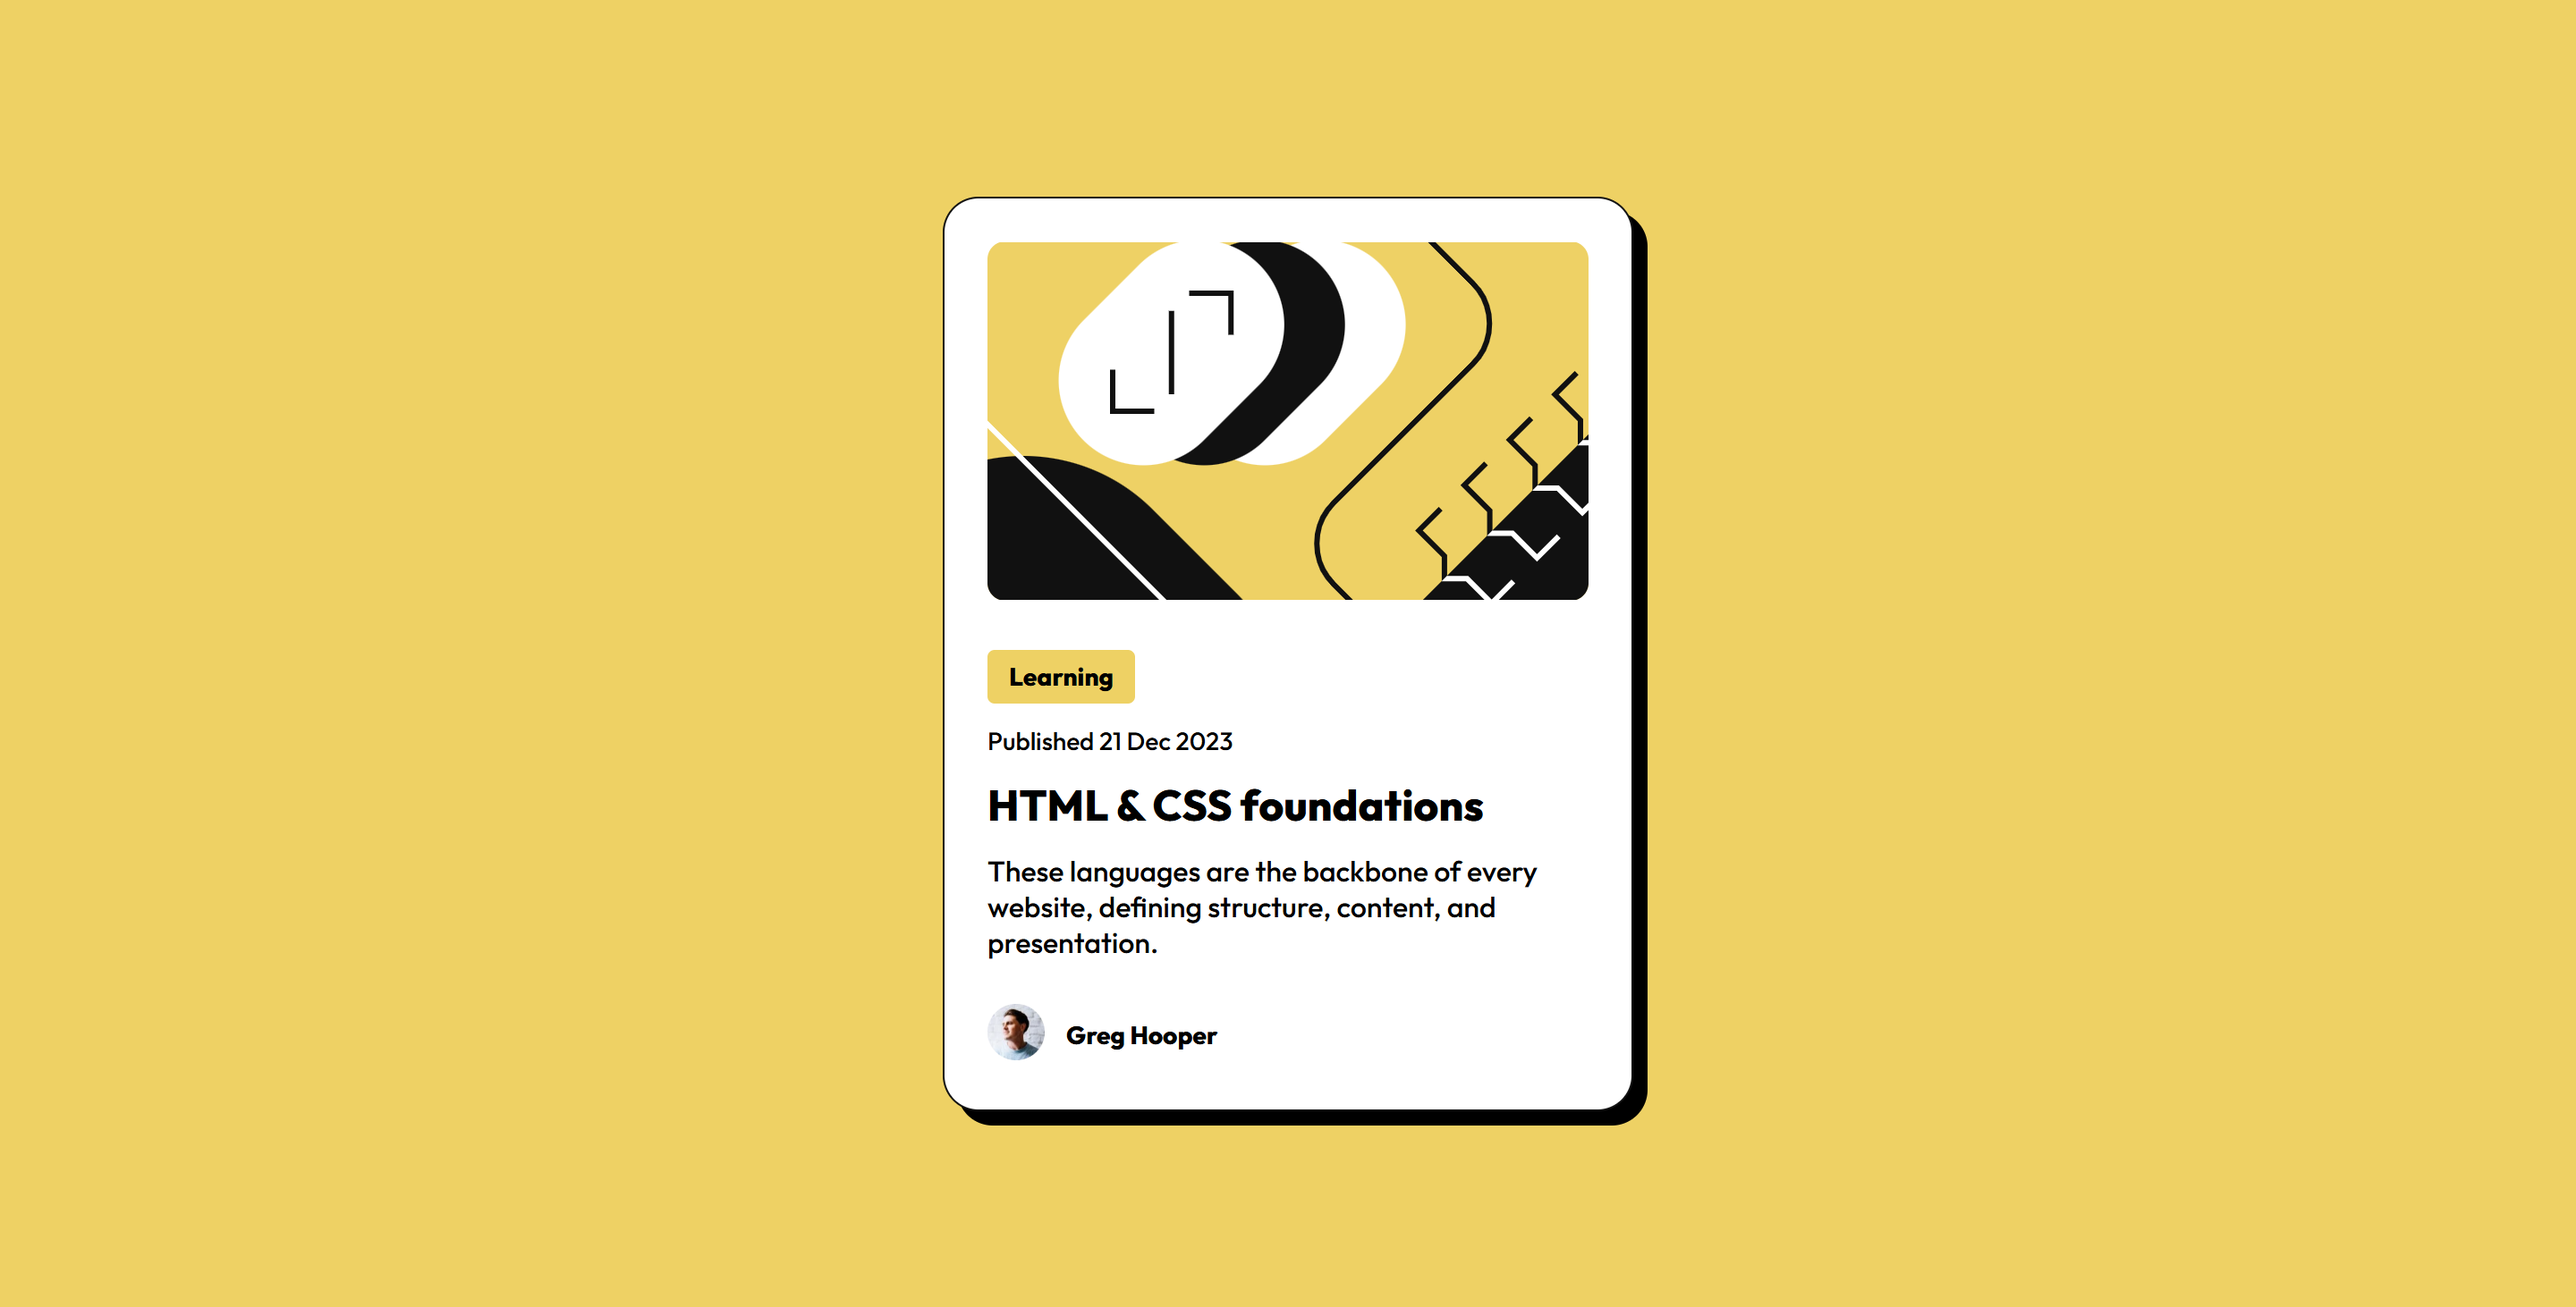
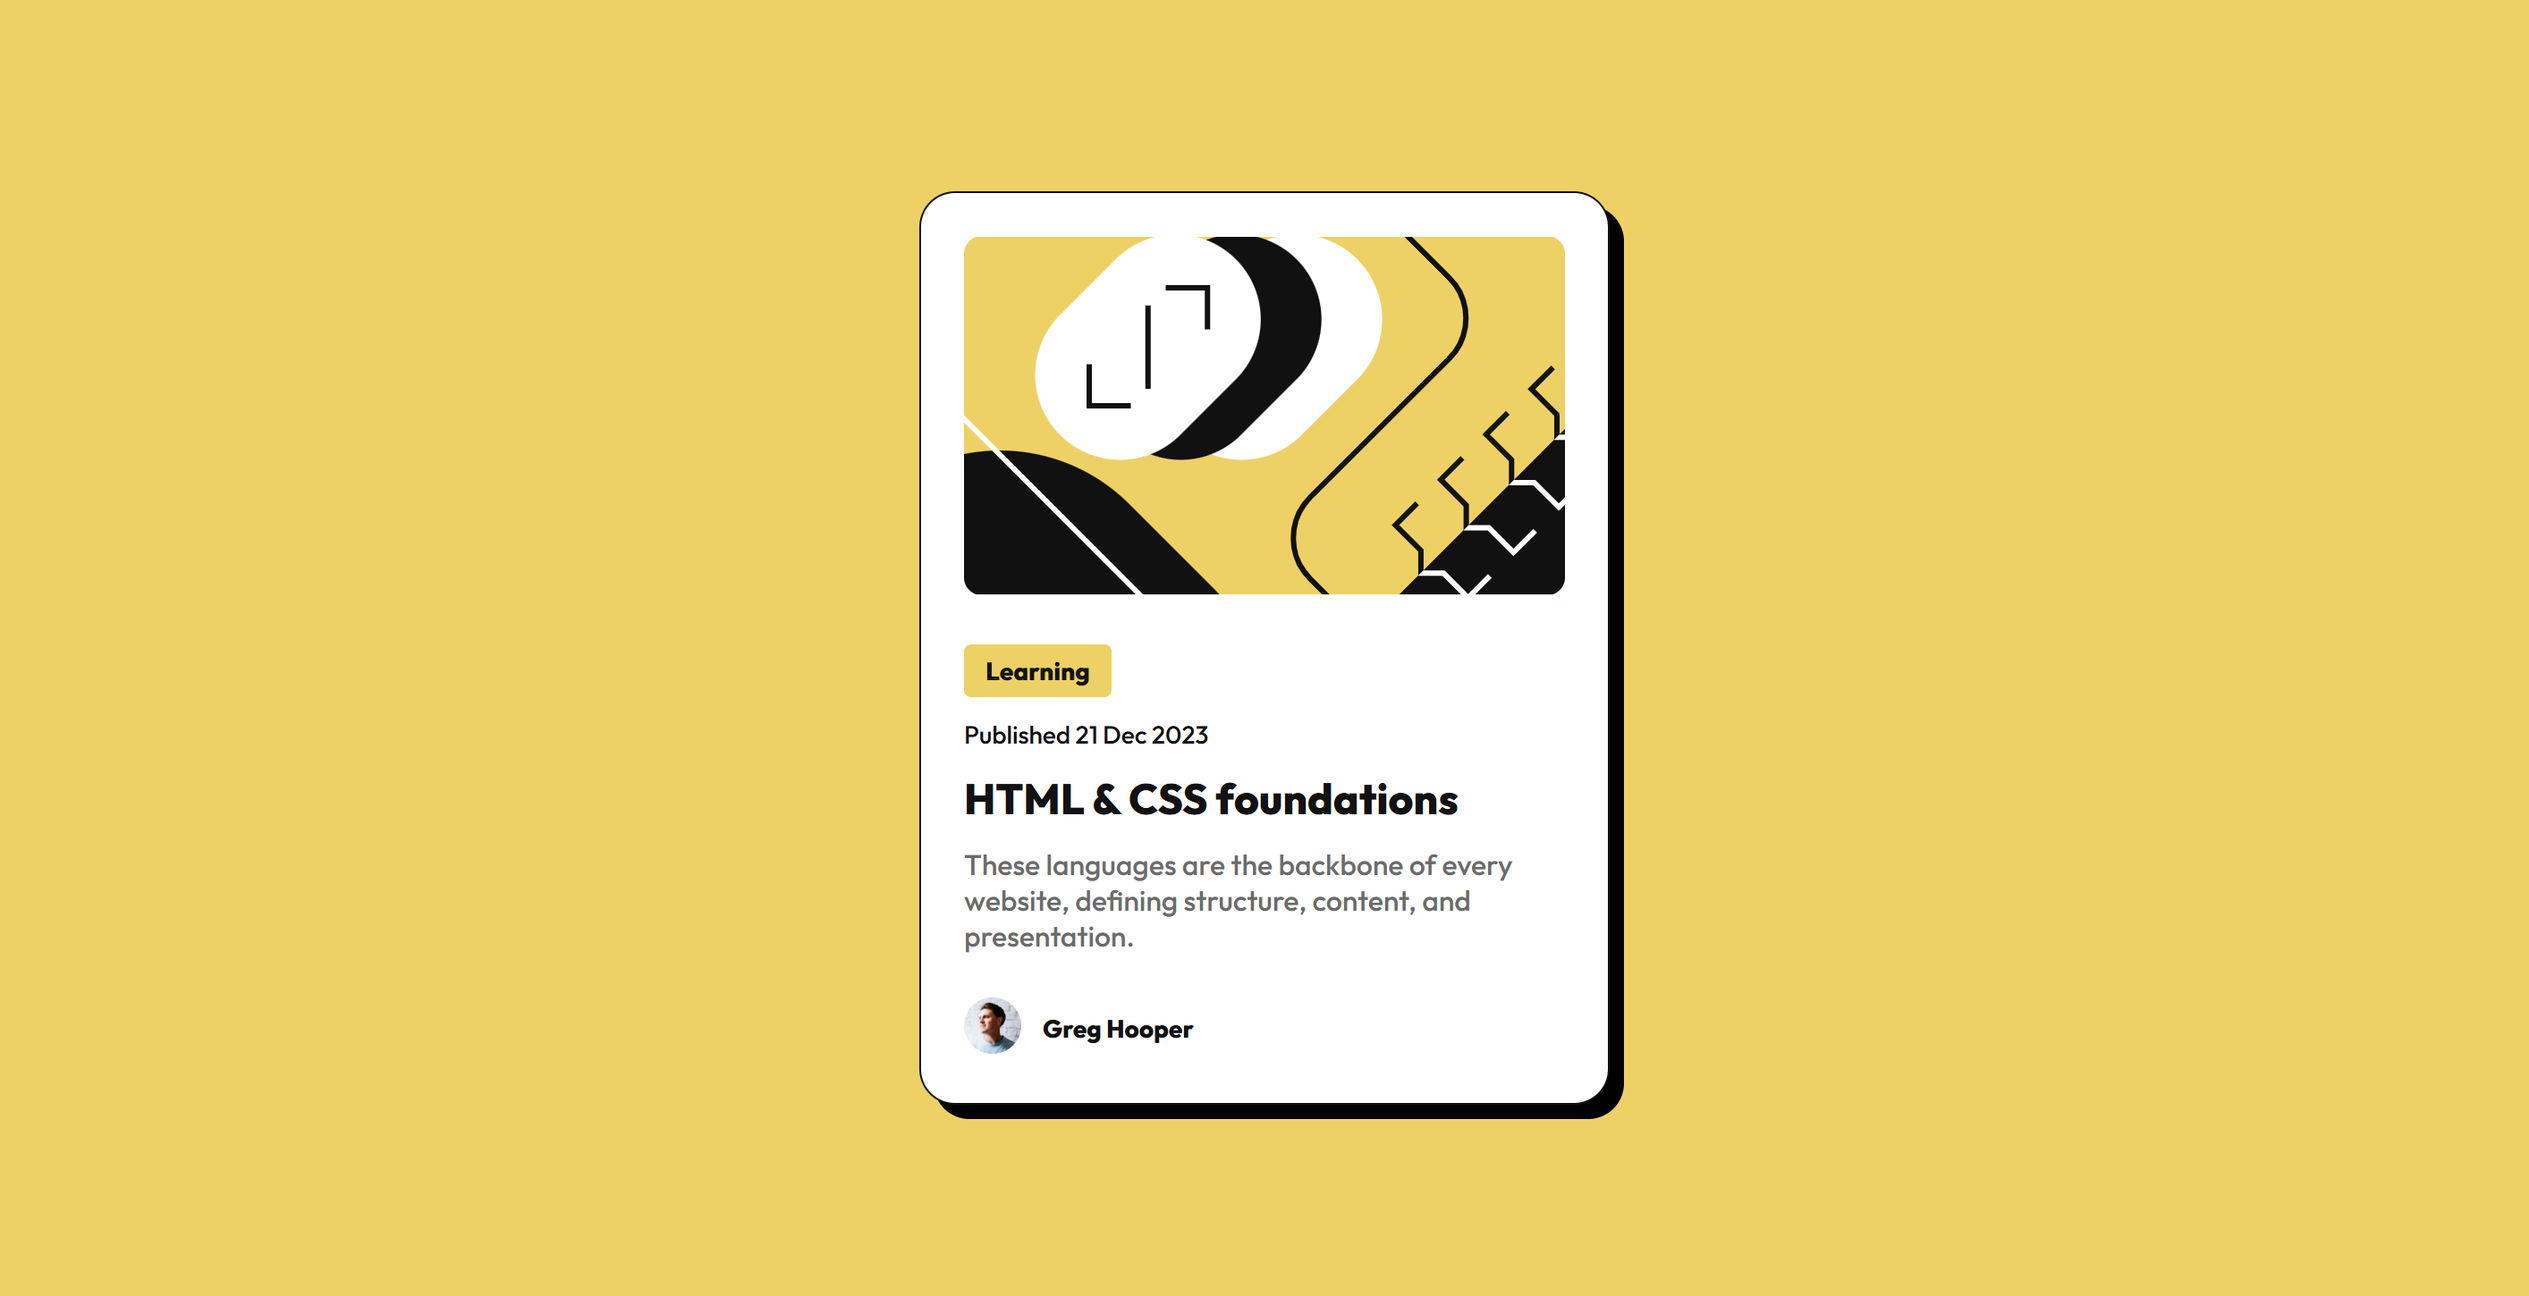
Fix text colours

diff --git a/css/styles.css b/css/styles.css
@@ -31,6 +31,7 @@ body {
     justify-content: center;
     align-items: center;
     background-color: var(--color-yellow);
+    color: var(--color-gray-950);
     font-family: "Outfit", sans-serif;
     font-optical-sizing: auto;
     font-weight: var(--font-normal);
@@ -88,6 +89,7 @@ body {
 .card .description {
     margin: 0;
     font-size: var(--font-size-desc);
+    color: var(--color-gray-500);
 }
 
 .card .author {
